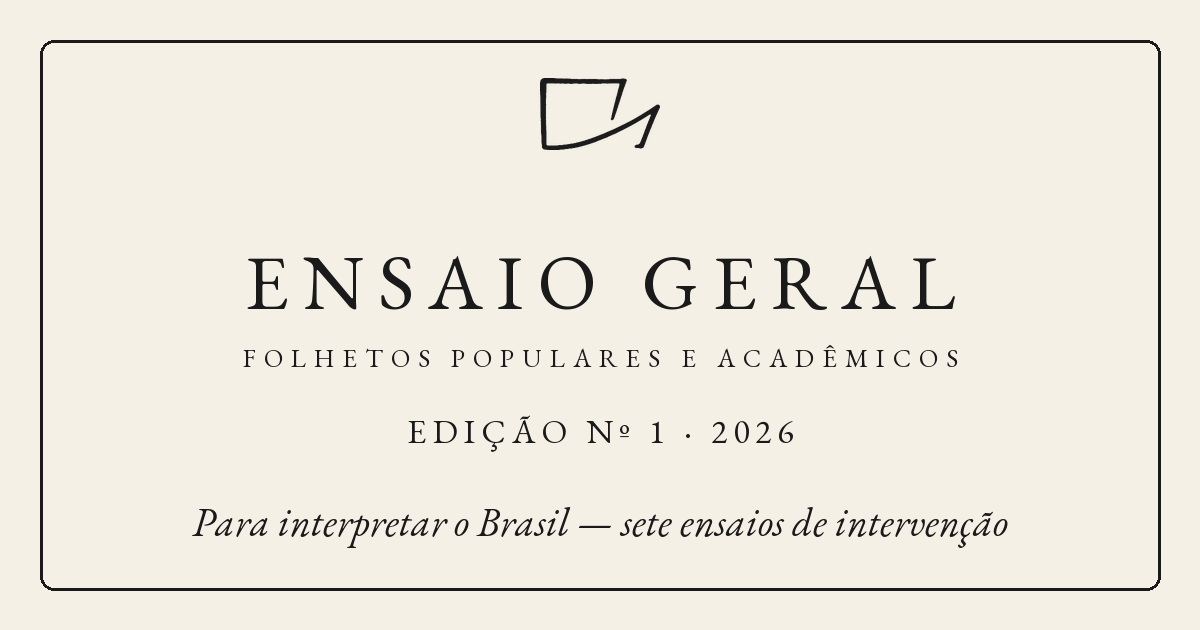
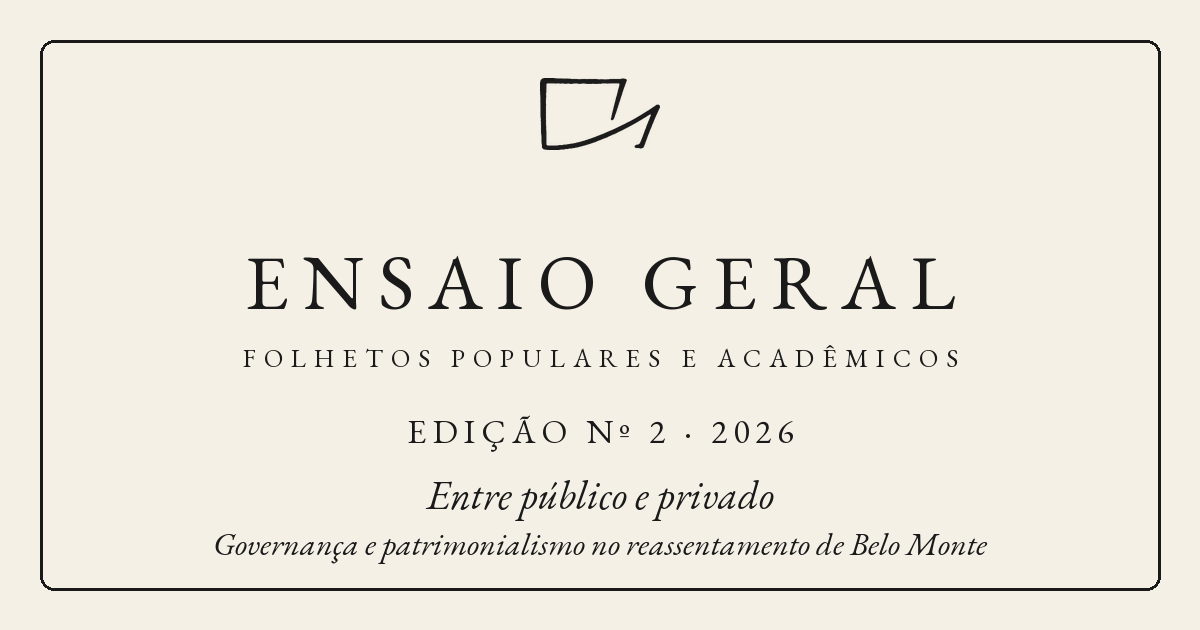
Leitura: teor do volume e bio do autor em cada edição; selo do nº 2
- Texto da contracapa apresenta o teor de cada volume sob o cabeçalho
  (nº 1 e nº 2); bio do autor ao fim da leitura de cada edição.
- Cabeçalho das edições e link de fecho centrados, como pretendido.
- Selo de compartilhamento atualizado para o nº 2.

Claude-Session: https://claude.ai/code/session_01Q3cdpr5zxV4uZpqEqtASBL

Changed region(s): [[0.1542, 0.754, 0.8325, 0.9048], [0.5242, 0.6635, 0.555, 0.6937]]

diff --git a/index.html b/index.html
@@ -194,10 +194,18 @@
   .leitura th, .leitura td { text-align: left; vertical-align: top; padding: .4rem .5rem .4rem 0; line-height: 1.4; }
   .leitura th { font-weight: 600; border-bottom: 1px solid var(--tinta); }
   .leitura tbody tr + tr td { border-top: 1px solid var(--linha); }
+  /* Cabeçalho da edição e fecho centrados: vencem a regra geral de
+     parágrafo da leitura (justificado, com recuo de primeira linha) */
+  .leitura .leitura-cabeca p, .leitura .fim-leitura {
+    text-align: center; text-align-last: center; text-indent: 0;
+  }
+  /* Teor do volume (texto da contracapa), sob o cabeçalho de cada edição */
+  .teor { max-width: 32rem; margin: -.6rem auto 0; font-size: 1.08rem; }
+  .leitura .teor p { text-indent: 0; }
   /* Bio do autor ao fim da leitura de cada edição */
   .sobre-autor { margin-top: 3rem; padding-top: 1.4rem; border-top: 1px solid var(--linha); }
   .sobre-autor .autor-nome { margin-top: 0; }
-  .sobre-autor p { font-size: .98rem; text-indent: 0; }
+  .leitura .sobre-autor p { font-size: .98rem; text-indent: 0; }
   .anteriores { margin: 2.6rem auto 0; max-width: 24rem; text-align: center; font-size: .95rem; }
   .anteriores-titulo { font-size: .78rem; letter-spacing: .2em; text-transform: uppercase; color: var(--tinta-suave); margin-bottom: .5rem; }
   .anteriores ul { list-style: none; }
@@ -333,6 +341,11 @@
       <p class="sub">Governança e patrimonialismo no reassentamento de Belo Monte</p>
       <p class="autor">Marina Bozzetto</p>
     </div>
+    <!-- teor:02 -->
+    <div class="teor">
+      <p>Entre 2000 e 2017, cerca de 1,3 milhão de brasileiros foram deslocados por grandes obras, sem um marco legal que diga como reassentá-los. Em Belo Monte — obra do governo federal a um só tempo executada, financiada e fiscalizada pelo mesmo —, a concessionária entregou a empreiteiras a tarefa de indenizar e reassentar os atingidos. À luz do patrimonialismo, este ensaio mostra como se apaga a fronteira entre o público e o privado, e quem paga por isso.</p>
+    </div>
+    <!-- /teor:02 -->
     <details class="texto-integral">
     <summary><span class="abre">Ler o texto integral</span><span class="fecha">Fechar o texto</span></summary>
 <h1 id="n2-introdução">Introdução</h1>
@@ -529,12 +542,14 @@
 </table>
 <p>Fonte: Carneiro; Souza; Silva, 2020</p>
 
+
+
+    <!-- bio:02 -->
     <div class="sobre-autor">
       <h3 class="autor-nome">Marina Bozzetto</h3>
-      <p>É socióloga, mestre em Ciência Política e pós-graduada em Teoria
-      Econômica e em Ambiente e Sociedade. Trabalha na área de Pesquisa,
-      Estratégia e Inteligência de Mercado.</p>
+      <p>É socióloga, mestre em Ciência Política e pós-graduada em Teoria Econômica e em Ambiente e Sociedade. Trabalha na área de Pesquisa, Estratégia e Inteligência de Mercado.</p>
     </div>
+    <!-- /bio:02 -->
 
     <p class="fim-leitura"><a href="#colecao">Conheça todas as edições da coleção →</a></p>
     </details>
@@ -552,6 +567,11 @@
         <span class="fonte">Januário Garcia</span>
       </div>
     </div>
+    <!-- teor:01 -->
+    <div class="teor">
+      <p>Sete ensaios de intervenção sobre as engrenagens do apagamento brasileiro: o Exército de formação golpista, o Judiciário guardião de privilégios, o pobre feito eleitor de seus algozes, o capital que não produz, a razão africana que resiste. Cada ensaio diz uma coisa só — e a diz inteira.</p>
+    </div>
+    <!-- /teor:01 -->
     <details class="texto-integral">
     <summary><span class="abre">Ler o texto integral</span><span class="fecha">Fechar o texto</span></summary>
     <h1 id="apresentação">Apresentação</h1>
@@ -1540,6 +1560,16 @@ Paulo: Cultrix, 2011.</p>
 North American Congress on Latin America</em>, 12 maio 2011.</p>
 
     </div>
+
+
+    <!-- bio:01 -->
+    <div class="sobre-autor">
+      <h3 class="autor-nome">Caetano Lagrasta Neto</h3>
+      <p>É desembargador aposentado do Tribunal de Justiça de São Paulo, pós-graduado em Sociologia e Política pelo Instituto Conhecimento Liberta e FESPSP; cursa mestrado em Teoria Crítica no ICL/Universidade Milão-Bicocca.</p>
+      <p>Na literatura, publicou poemas, contos e romance. Ocupa a Cadeira Graciliano Ramos, da Academia de Letras das Arcadas, e trabalhou como corroteirista, ator, autor de comentário musical em longas e curtas-metragens, além do ensaio fotográfico Desmedida Segurança, sobre Casas de Custódia e Medida de Segurança.</p>
+    </div>
+    <!-- /bio:01 -->
+
     <p class="fim-leitura"><a href="#colecao">Conheça todas as edições da coleção →</a></p>
     </details>
     </article>
